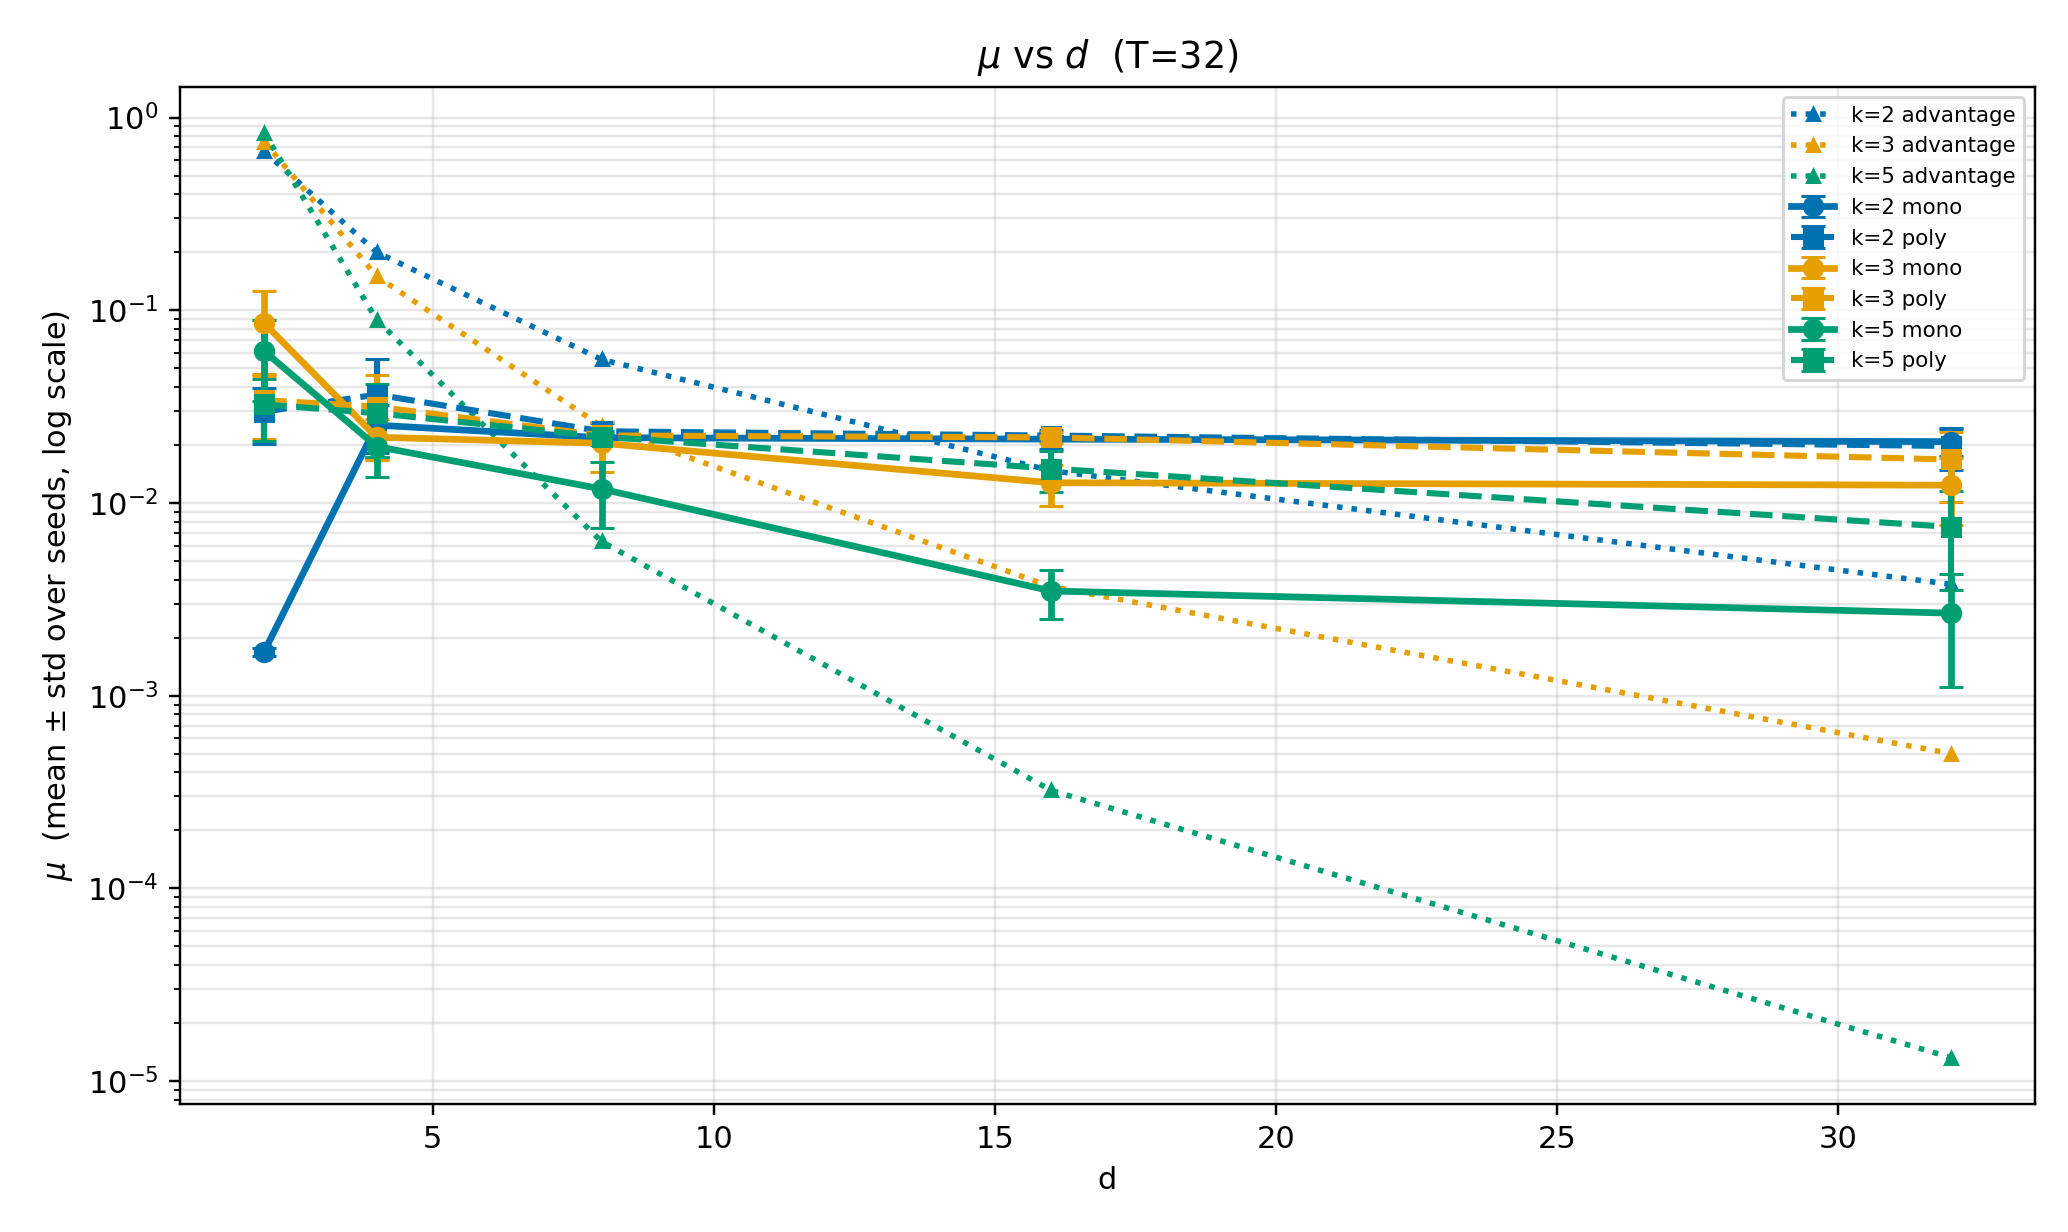
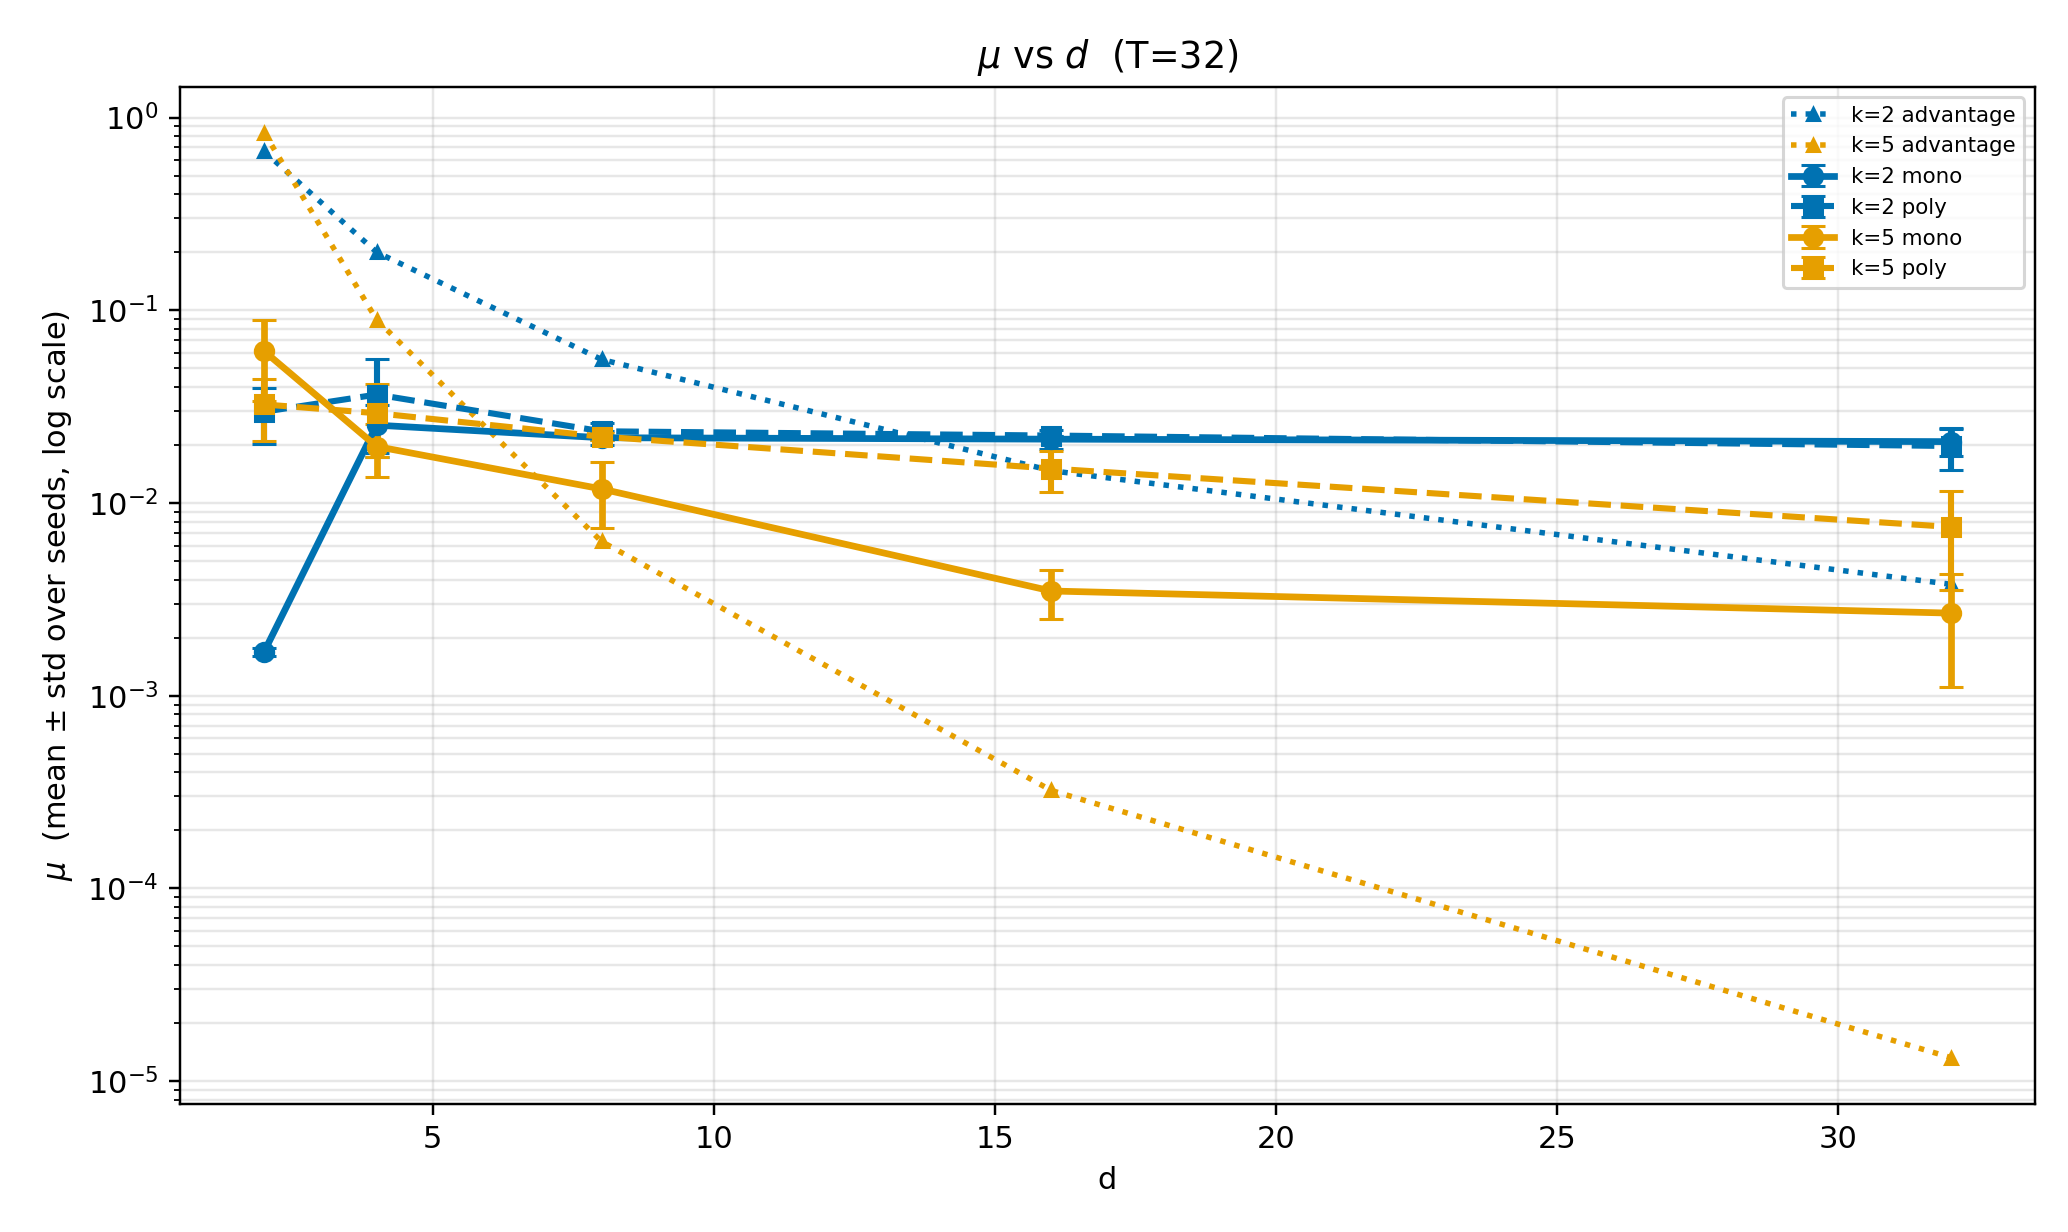
Add log(mu0/mu) plot, k=5 appendix curves, small-data HPC script.
- log(mu_0/mu) vs k from L_final - L_init (existing runs)
- appendix training curves for k=3 and k=5
- mu_vs_d: k=2,5 only with matched colors
- hpc_final_loss_small.sh: 80 train sentences

diff --git a/run_final_loss.py b/run_final_loss.py
@@ -381,6 +381,32 @@ def _pad_histories(runs: list[dict]) -> list[dict]:
     return out
 
 
+def _log_mu_ratio_per_run(r: dict, T: int) -> float:
+    """log(mu_0/mu) = L_final - L_init using aligned losses from training history."""
+    L_final = _aligned_loss(r, T)
+    hist = r.get("loss_history", [])
+    if not hist:
+        return 0.0
+    model = str(r.get("model", r.get("display", "")))
+    L_init = float(hist[0])
+    if not model.startswith("nl-CSA"):
+        L_init += math.log(T)
+    return float(L_final - L_init)
+
+
+def _append_log_mu_ratio(agg: dict, runs: list[dict], T: int) -> None:
+    ratios = np.array([_log_mu_ratio_per_run(r, T) for r in runs], dtype=float)
+    agg["log_mu_ratio_mean"] = float(ratios.mean())
+    agg["log_mu_ratio_std"] = float(ratios.std())
+    agg["log_mu_ratio_per_seed"] = ratios.tolist()
+    aligned = np.asarray(agg.get("aligned_history", []), dtype=float)
+    if aligned.size:
+        agg["aligned_init_mean"] = float(aligned[0])
+    finals = np.array([_aligned_loss(r, T) for r in runs], dtype=float)
+    inits = finals - ratios
+    agg["aligned_init_per_seed"] = inits.tolist()
+
+
 def plot_final_aligned_bar(aggs: list[dict], T: int, out_path: Path, title_suffix: str = "") -> None:
     """Final aligned loss mean±std (bar) with FINAL styles."""
     fig, ax = plt.subplots(figsize=(10, 5.2))
@@ -464,6 +490,69 @@ def plot_aligned_vs_k(
     ax.set_ylabel(r"aligned loss:  $-\log\mu+\log T$  or  Renyi")
     ax.set_title(
         f"FINAL aligned loss vs k  (T={T}, d={d}; {split_label}; mono+poly; param counts in legend)"
+    )
+    all_k = sorted({int(p["k"]) for p in mu_points})
+    if all_k:
+        ax.set_xticks(all_k)
+    ax.grid(True, alpha=0.3)
+    ax.legend(fontsize=6.5, loc="best")
+    fig.tight_layout()
+    fig.savefig(out_path, dpi=220)
+    plt.close(fig)
+
+
+def plot_log_mu_ratio_vs_k(
+    mu_points: list[dict],
+    nl_refs: list[dict],
+    T: int,
+    d: int,
+    out_path: Path,
+    param_labels: dict[str, str] | None = None,
+) -> None:
+    """log(mu_0/mu) vs k = L_final - L_init (random-init baseline)."""
+    param_labels = param_labels or {}
+    fig, ax = plt.subplots(figsize=(11, 6.2))
+    by_model: dict[str, list[dict]] = {}
+    for p in mu_points:
+        by_model.setdefault(p["model"], []).append(p)
+    for name, rows in by_model.items():
+        rows = sorted(rows, key=lambda r: int(r["k"]))
+        st = STYLES.get(name, dict(color="0.3", linestyle="-", marker="o", linewidth=2))
+        ks = [int(r["k"]) for r in rows]
+        means = [float(r["log_mu_ratio_mean"]) for r in rows]
+        stds = [float(r.get("log_mu_ratio_std", 0.0)) for r in rows]
+        label = param_labels.get(name, name)
+        ax.errorbar(
+            ks,
+            means,
+            yerr=stds,
+            color=st["color"],
+            linestyle=st["linestyle"],
+            marker=st.get("marker", "o"),
+            linewidth=st.get("linewidth", 2.2),
+            markersize=7,
+            capsize=4,
+            label=label,
+        )
+    for ref in nl_refs:
+        name = ref["model"]
+        st = STYLES.get(name, dict(color="0.2", linestyle=":", linewidth=2))
+        mean = float(ref["log_mu_ratio_mean"])
+        std = float(ref.get("log_mu_ratio_std", 0.0))
+        label = param_labels.get(name, name)
+        ax.axhspan(mean - std, mean + std, color=st["color"], alpha=0.14, linewidth=0, zorder=0)
+        ax.axhline(
+            mean,
+            color=st["color"],
+            linestyle=st["linestyle"],
+            linewidth=st.get("linewidth", 2.0),
+            label=f"{label} (k-indep., envelope=seed std)",
+        )
+    ax.axhline(0.0, color="0.55", linestyle=":", linewidth=1.0, alpha=0.7, label=r"no improvement ($\log(\mu_0/\mu)=0$)")
+    ax.set_xlabel("k")
+    ax.set_ylabel(r"$\log(\mu_0/\mu)$  (= $L_{\mathrm{final}} - L_0$; nl-CSA: Renyi $\Delta$)")
+    ax.set_title(
+        f"FINAL log($\\mu_0$/$\\mu$) vs k  (T={T}, d={d}; random-init baseline; param counts in legend)"
     )
     all_k = sorted({int(p["k"]) for p in mu_points})
     if all_k:
@@ -583,6 +672,7 @@ def _aggregate_nl_runs(runs: list[dict], spec: dict, T: int) -> dict:
         agg["aligned_test_loss_per_seed"] = tf.tolist()
     agg["raw_final_loss_mean"] = float(agg["final_loss_mean"])
     agg["raw_final_loss_std"] = float(agg["final_loss_std"])
+    _append_log_mu_ratio(agg, runs, T)
     agg["spec"] = spec
     agg["k"] = None
     return agg
@@ -608,6 +698,7 @@ def _aggregate_mu_runs(runs: list[dict], spec: dict, k: int, T: int) -> dict:
         agg["aligned_test_loss_per_seed"] = tf.tolist()
     agg["raw_final_loss_mean"] = float(agg["final_loss_mean"])
     agg["raw_final_loss_std"] = float(agg["final_loss_std"])
+    _append_log_mu_ratio(agg, runs, T)
     agg["spec"] = spec
     agg["k"] = k
     return agg
@@ -625,11 +716,65 @@ def _mu_point_from_agg(agg: dict, spec: dict, k: int, test: bool = False) -> dic
         "n_params_model": agg.get("n_params_model"),
         "kernel_mode": spec.get("kernel_mode"),
         "param_label": spec.get("param_label"),
+        "log_mu_ratio_mean": agg["log_mu_ratio_mean"],
+        "log_mu_ratio_std": agg["log_mu_ratio_std"],
     }
     if test:
         p["aligned_loss_mean"] = agg["aligned_test_loss_mean"]
         p["aligned_loss_std"] = agg["aligned_test_loss_std"]
     return p
+
+
+def _backfill_log_mu_ratio_fields(agg: dict) -> None:
+    if "log_mu_ratio_mean" in agg:
+        return
+    ratios: list[float] = []
+    for hist in agg.get("seed_histories", []):
+        if hist:
+            ratios.append(float(hist[-1]) - float(hist[0]))
+    if not ratios and agg.get("aligned_history"):
+        ah = agg["aligned_history"]
+        ratios = [float(ah[-1]) - float(ah[0])]
+    if ratios:
+        arr = np.array(ratios, dtype=float)
+        agg["log_mu_ratio_mean"] = float(arr.mean())
+        agg["log_mu_ratio_std"] = float(arr.std())
+        agg["log_mu_ratio_per_seed"] = arr.tolist()
+
+
+def _mu_point_log_ratio(agg: dict, spec: dict, k: int | None) -> dict:
+    _backfill_log_mu_ratio_fields(agg)
+    return {
+        "model": spec.get("display", agg.get("model", "")),
+        "k": k,
+        "log_mu_ratio_mean": agg["log_mu_ratio_mean"],
+        "log_mu_ratio_std": agg.get("log_mu_ratio_std", 0.0),
+        "param_label": spec.get("param_label", agg.get("param_label")),
+    }
+
+
+def _plot_appendix_curves(
+    aggregates_by_k: dict,
+    nl_refs: list[dict],
+    appendix_ks: list[int],
+    T: int,
+    d: int,
+    plots: Path,
+    param_labels: dict[str, str],
+) -> None:
+    for appendix_k in appendix_ks:
+        aggs_appendix = (aggregates_by_k.get(str(appendix_k)) or []) + nl_refs
+        if not aggs_appendix:
+            continue
+        plot_final_curves(
+            aggs_appendix,
+            plots / f"final_training_curves_k{appendix_k}_appendix.png",
+            T=T,
+            d=d,
+            k=int(appendix_k),
+            param_labels=param_labels,
+            title=f"FINAL training curves (appendix, k={appendix_k}, T={T}, d={d})",
+        )
 
 
 def _check_comparable(aggs: list[dict], tol_ratio: float = 0.35) -> list[str]:
@@ -674,6 +819,17 @@ def _replot_from_summary(out: Path, appendix_curves_k: int | None = None) -> int
         )
     mu_points_test = summary.get("mu_points_vs_k_test") or []
     nl_refs_test = summary.get("nl_refs_test") or nl_refs
+    for ref in nl_refs:
+        _backfill_log_mu_ratio_fields(ref)
+    for aggs_k in aggs_by_k.values():
+        for agg in aggs_k:
+            _backfill_log_mu_ratio_fields(agg)
+    log_mu_points = []
+    for k_str, aggs_k in aggs_by_k.items():
+        for agg in aggs_k:
+            log_mu_points.append(_mu_point_log_ratio(agg, agg.get("spec", {}), int(k_str)))
+    if log_mu_points:
+        plot_log_mu_ratio_vs_k(log_mu_points, nl_refs, T, d, plots / "final_log_mu_ratio_vs_k.png", param_labels)
     if mu_points_test:
         plot_aligned_vs_k(
             mu_points_test,
@@ -686,22 +842,13 @@ def _replot_from_summary(out: Path, appendix_curves_k: int | None = None) -> int
             mean_key="aligned_loss_mean",
             std_key="aligned_loss_std",
         )
-    appendix_k = int(
-        appendix_curves_k
-        if appendix_curves_k is not None
-        else summary.get("config", {}).get("appendix_curves_k", 3)
+    appendix_ks = _parse_ks(
+        str(summary.get("config", {}).get("appendix_curves_ks", "")),
+        [3, 5],
     )
-    aggs_appendix = (aggs_by_k.get(str(appendix_k)) or []) + (summary.get("nl_refs") or [])
-    if aggs_appendix:
-        plot_final_curves(
-            aggs_appendix,
-            plots / f"final_training_curves_k{appendix_k}_appendix.png",
-            T=T,
-            d=d,
-            k=int(appendix_k),
-            param_labels=param_labels,
-            title=f"FINAL training curves (appendix, k={appendix_k}, T={T}, d={d})",
-        )
+    if appendix_curves_k is not None:
+        appendix_ks = [int(appendix_curves_k)]
+    _plot_appendix_curves(aggs_by_k, nl_refs, appendix_ks, T, d, plots, param_labels)
     # legacy single-k aggregates
     aggs = summary.get("aggregates") or []
     if aggs and not aggs_by_k:
@@ -754,7 +901,8 @@ def main() -> int:
     p.add_argument("--test-max-sentences", type=int, default=200)
     p.add_argument("--model-seed-base", type=int, default=1042)
     p.add_argument("--n-seeds", type=int, default=10)
-    p.add_argument("--appendix-curves-k", type=int, default=3, help="k for appendix training-curves plot")
+    p.add_argument("--appendix-curves-k", type=int, default=3, help="legacy single k for appendix training-curves plot")
+    p.add_argument("--appendix-curves-ks", type=str, default="3,5", help="comma-separated k values for appendix training curves")
     p.add_argument("--batch-size", type=int, default=64)
     p.add_argument("--checkpoint-every", type=int, default=20)
     p.add_argument("--output-dir", type=str, default=None)
@@ -988,7 +1136,16 @@ def main() -> int:
             param_labels,
             "held-out test",
         )
-    appendix_k = int(args.appendix_curves_k)
+    log_mu_points = []
+    for s in mu_specs:
+        for k in ks:
+            for agg in aggregates_by_k[str(k)]:
+                if agg["model"] == s["display"]:
+                    log_mu_points.append(_mu_point_log_ratio(agg, s, k))
+                    break
+    if log_mu_points:
+        plot_log_mu_ratio_vs_k(log_mu_points, nl_refs, args.T, args.d, plots / "final_log_mu_ratio_vs_k.png", param_labels)
+    appendix_ks = _parse_ks(args.appendix_curves_ks, [3, 5])
     for k in ks:
         aggs_k = aggregates_by_k[str(k)] + nl_refs
         if not aggs_k:
@@ -1000,17 +1157,7 @@ def main() -> int:
             aggs_k, plots / f"final_aligned_curves_k{k}.png", T=args.T, d=args.d, k=k, param_labels=param_labels
         )
         plot_final_raw_curves(aggs_k, plots / f"final_raw_curves_k{k}.png")
-    aggs_appendix = aggregates_by_k.get(str(appendix_k), []) + nl_refs
-    if aggs_appendix:
-        plot_final_curves(
-            aggs_appendix,
-            plots / f"final_training_curves_k{appendix_k}_appendix.png",
-            T=args.T,
-            d=args.d,
-            k=appendix_k,
-            param_labels=param_labels,
-            title=f"FINAL training curves (appendix, k={appendix_k}, T={args.T}, d={args.d})",
-        )
+    _plot_appendix_curves(aggregates_by_k, nl_refs, appendix_ks, args.T, args.d, plots, param_labels)
 
     # Convergence check on all mu points + nl
     flat_for_check = [
@@ -1042,6 +1189,7 @@ def main() -> int:
             "test_data_seed": args.test_data_seed,
             "test_max_sentences": args.test_max_sentences,
             "appendix_curves_k": int(args.appendix_curves_k),
+            "appendix_curves_ks": args.appendix_curves_ks,
             "max_sentences": args.max_sentences,
             "batch_size": None if args.batch_size <= 0 else args.batch_size,
             "qsa_angles": qsa_angle_param_count(args.d, args.qsa_layers),

diff --git a/run_study.py b/run_study.py
@@ -54,6 +54,7 @@ FINAL_TARGET_LOSS = 3.8  # professor: ~3.8 is acceptable for FINAL obar
 # data curve, with different dash (Haar=dashed, advantage=dotted).
 _DATA_MARKERS = ("o", "s", "D", "^", "v")
 _DATA_COLORS = ("#0072B2", "#E69F00", "#009E73", "#CC79A7", "#56B4E9")
+_K_COLOR_IDX = {2: 0, 5: 1, 3: 2, 1: 3, 6: 4}
 _REF_HAAR_COLOR = "#000000"  # fallback when a single global Haar is drawn
 _REF_ADV_COLOR = "#666666"
 
@@ -586,8 +587,8 @@ def _plot_final_mu_panels(
     # ---------- mu vs T (d=16), only k=2,5 for readability ----------
     fig, ax = plt.subplots(figsize=(9.4, 5.6))
     mu_ks_T = [k for k in (2, 5) if k in set(mu_ks)]
-    for i, k in enumerate(mu_ks_T):
-        color = _DATA_COLORS[i % len(_DATA_COLORS)]
+    for k in mu_ks_T:
+        color = _DATA_COLORS[_K_COLOR_IDX.get(k, 0)]
         pts_mono = sorted(
             [
                 r
@@ -630,11 +631,11 @@ def _plot_final_mu_panels(
     fig.savefig(out_root / "mu_vs_T.png", dpi=220)
     plt.close(fig)
 
-    # ---------- mu vs d (T=max_T) for k=2,3,5 ----------
+    # ---------- mu vs d (T=max_T) for k=2,5 only (same colors as mu vs T) ----------
     fig, ax = plt.subplots(figsize=(9.4, 5.6))
-    ks_d = [k for k in (2, 3, 5) if k in set(mu_ks)]
-    for i, k in enumerate(ks_d):
-        color = _DATA_COLORS[i % len(_DATA_COLORS)]
+    ks_d = [k for k in (2, 5) if k in set(mu_ks)]
+    for k in ks_d:
+        color = _DATA_COLORS[_K_COLOR_IDX.get(k, 0)]
         pts_mono = sorted(
             [
                 r
